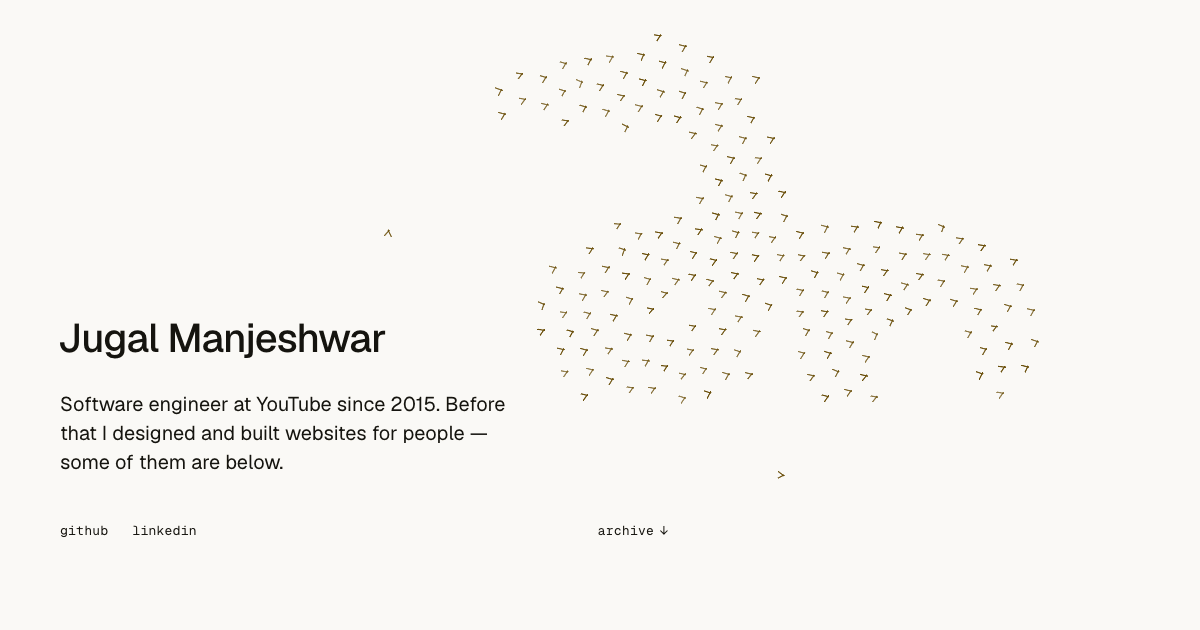
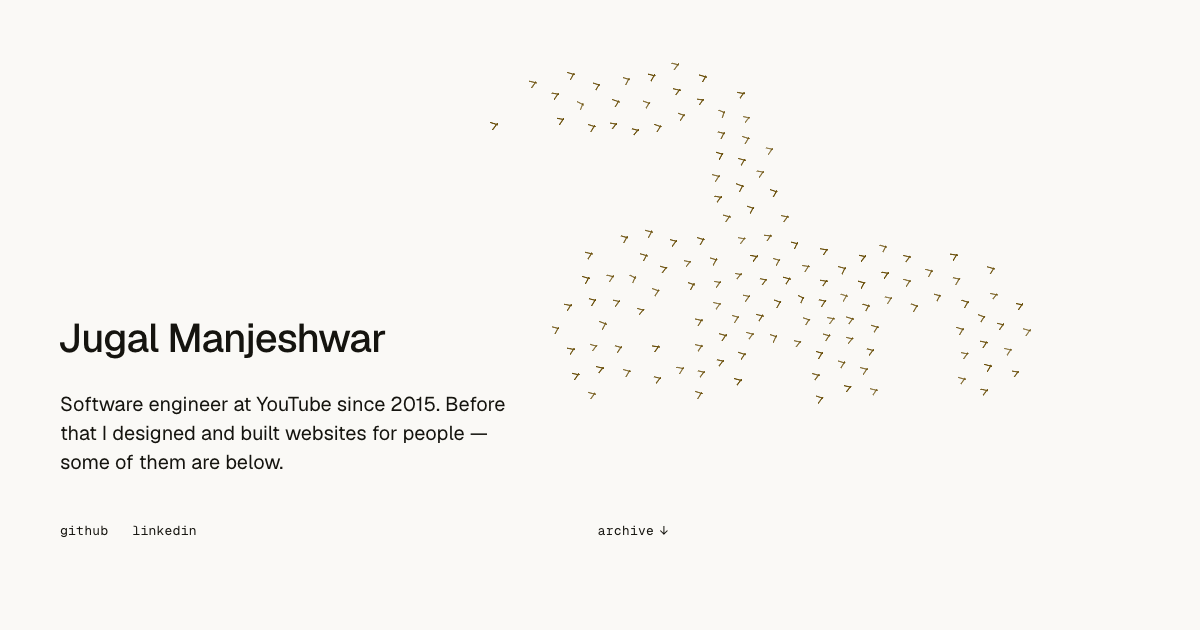
Fewer, cheaper birds: 140 on desktop, a bare GL context, a 60px bleed
Counts drop 200 → 140 on desktop, 70 → 60 on phones, 220 → 150 on the 404.
140 is the floor where the mark still reads; 120 goes patchy.

The GL context stops asking for what it never uses — depth: false,
stencil: false, desynchronized: true — and adds
failIfMajorPerformanceCaveat, so machines where "WebGL" means SwiftShader
fall through to the Canvas 2D path, which is measurably faster there (23
draws/s vs keeping pace with a 60 Hz rAF).

The canvas bleed shrinks 90 → 60 px everywhere it appears: it is off-screen
paint the compositor pays for at full price, ~12% of the layer at 1440×900,
and 60 px is still enough for a bird to turn around out of sight.

diff --git a/index.html b/index.html
@@ -64,7 +64,7 @@
 <canvas id="flock" aria-hidden="true"></canvas>
 <!-- Without script, a still of a seeded flock so the page is never blank. -->
 <!--STILL-->
-<svg class="still" viewBox="0 0 1620 1080" preserveAspectRatio="xMidYMid meet" aria-hidden="true" focusable="false"><polyline points="730.0,482.3 731.3,477.3 726.1,477.1" opacity="0.75"/><polyline points="745.6,321.3 748.8,325.0 750.8,320.6" opacity="0.95"/><polyline points="832.8,484.4 829.3,481.0 827.7,485.6" opacity="0.94"/><polyline points="1070.0,603.3 1074.2,601.3 1070.5,598.5" opacity="0.92"/><polyline points="770.9,285.6 768.5,281.3 764.6,284.4" opacity="0.85"/><polyline points="1050.0,484.5 1045.2,483.9 1046.8,488.5" opacity="0.78"/><polyline points="932.5,526.8 930.7,522.3 926.5,524.8" opacity="0.71"/><polyline points="814.1,603.7 810.4,607.1 814.9,609.4" opacity="0.83"/><polyline points="813.1,527.3 814.8,522.6 809.8,523.0" opacity="0.85"/><polyline points="985.2,470.7 988.9,467.1 984.2,464.9" opacity="0.93"/><polyline points="695.1,577.5 692.6,581.6 696.2,584.9" opacity="0.81"/><polyline points="892.6,580.3 889.6,584.5 894.4,586.3" opacity="0.71"/><polyline points="734.3,604.6 729.6,602.4 729.1,607.6" opacity="0.91"/><polyline points="787.9,523.0 792.4,524.8 793.8,520.1" opacity="0.74"/><polyline points="646.7,602.5 651.6,600.8 648.3,596.8" opacity="0.69"/><polyline points="916.5,479.7 911.5,479.9 913.7,484.4" opacity="0.83"/><polyline points="1067.4,509.2 1069.9,505.0 1065.0,504.0" opacity="0.82"/><polyline points="611.3,581.1 616.4,580.5 614.7,575.7" opacity="0.78"/><polyline points="976.2,517.8 975.4,522.9 980.6,522.4" opacity="0.91"/><polyline points="677.0,318.3 673.3,321.8 677.7,324.6" opacity="0.68"/><polyline points="806.7,503.4 810.3,506.7 813.2,502.8" opacity="0.93"/><polyline points="815.2,447.4 812.9,443.0 808.9,446.1" opacity="0.70"/><polyline points="718.2,473.6 714.4,476.9 719.0,479.0" opacity="0.94"/><polyline points="792.8,320.1 792.7,325.1 797.6,324.4" opacity="0.74"/><polyline points="890.2,497.5 892.4,502.0 896.5,499.1" opacity="0.88"/><polyline points="1087.8,607.2 1089.4,602.3 1084.3,602.6" opacity="0.95"/><polyline points="793.7,539.4 796.6,543.6 800.2,540.2" opacity="0.69"/><polyline points="698.6,524.3 695.3,520.4 692.3,524.7" opacity="0.75"/><polyline points="813.5,580.5 812.1,585.4 817.2,585.0" opacity="0.72"/><polyline points="675.1,543.3 671.6,539.9 668.6,543.9" opacity="0.88"/><polyline points="1094.1,584.5 1089.5,582.6 1089.6,587.6" opacity="0.90"/><polyline points="1026.7,503.5 1031.9,502.9 1030.4,498.0" opacity="0.77"/><polyline points="733.7,504.8 733.0,499.7 728.2,501.4" opacity="0.79"/><polyline points="831.4,457.8 831.0,463.0 836.1,462.3" opacity="0.76"/><polyline points="718.4,521.4 714.1,519.9 711.2,523.3" opacity="0.91"/><polyline points="799.5,461.0 795.5,462.6 795.9,466.8" opacity="0.72"/><polyline points="795.3,607.3 796.3,602.2 791.1,602.7" opacity="0.74"/><polyline points="917.2,618.5 912.2,619.5 914.4,624.2" opacity="0.93"/><polyline points="1110.5,601.8 1106.4,604.7 1110.6,607.4" opacity="0.95"/><polyline points="565.8,303.2 571.0,303.4 569.5,298.5" opacity="0.80"/><polyline points="1110.3,520.0 1107.0,523.7 1111.7,525.1" opacity="0.76"/><polyline points="947.4,520.0 947.4,525.1 952.3,523.5" opacity="0.92"/><polyline points="756.5,621.8 751.3,622.3 753.3,627.1" opacity="0.69"/><polyline points="773.5,325.2 770.6,321.2 767.1,324.7" opacity="0.74"/><polyline points="894.5,561.7 889.6,563.3 892.7,567.3" opacity="0.78"/><polyline points="752.7,607.3 747.8,606.6 747.9,611.5" opacity="0.71"/><polyline points="948.8,586.8 946.8,583.3 944.8,586.8" opacity="0.76"/><polyline points="923.5,485.6 927.5,483.1 924.9,479.1" opacity="0.74"/><polyline points="1069.3,541.7 1068.9,546.5 1073.5,544.9" opacity="0.81"/><polyline points="997.9,526.3 993.9,522.9 991.9,527.8" opacity="0.84"/><polyline points="951.5,556.0 950.0,559.8 954.0,559.0" opacity="0.71"/><polyline points="889.4,488.1 889.7,483.2 884.9,483.6" opacity="0.80"/><polyline points="716.3,465.5 712.7,462.0 709.7,466.0" opacity="0.73"/><polyline points="711.0,330.4 710.7,325.2 706.0,327.2" opacity="0.71"/><polyline points="764.4,571.4 767.0,566.9 762.0,565.7" opacity="0.84"/><polyline points="790.6,485.0 793.8,481.1 789.0,479.7" opacity="0.93"/><polyline points="932.5,622.3 928.0,620.0 926.5,624.8" opacity="0.77"/><polyline points="745.5,585.7 750.2,583.6 747.0,579.6" opacity="0.72"/><polyline points="634.3,586.9 635.3,581.9 630.2,581.7" opacity="0.84"/><polyline points="856.3,477.1 852.3,479.5 854.8,483.5" opacity="0.71"/><polyline points="949.6,605.8 948.4,600.9 944.3,603.8" opacity="0.93"/><polyline points="653.7,305.8 649.1,307.7 651.6,312.0" opacity="0.70"/><polyline points="700.7,622.1 695.6,622.9 697.3,627.8" opacity="0.72"/><polyline points="664.5,529.0 667.2,525.0 662.9,522.8" opacity="0.72"/><polyline points="589.8,288.4 591.1,283.4 585.9,283.7" opacity="0.83"/><polyline points="762.8,507.5 767.3,505.6 763.8,502.2" opacity="0.90"/><polyline points="466.6,493.6 461.4,493.4 463.1,498.3" opacity="0.86"/><polyline points="1032.5,528.2 1027.6,527.2 1028.5,532.2" opacity="0.85"/><polyline points="1030.9,475.5 1029.6,480.3 1034.6,480.7" opacity="0.74"/><polyline points="694.4,308.7 694.6,303.6 689.8,305.2" opacity="0.79"/><polyline points="751.8,262.7 747.7,265.9 751.9,268.9" opacity="0.83"/><polyline points="669.3,495.1 670.5,500.1 674.9,497.5" opacity="0.79"/><polyline points="834.4,359.4 832.2,363.9 837.0,365.2" opacity="0.86"/><polyline points="650.3,285.9 653.3,282.0 649.0,279.5" opacity="0.83"/><polyline points="1095.6,500.4 1091.1,502.7 1095.0,506.0" opacity="0.87"/><polyline points="667.1,599.9 671.3,601.6 670.9,597.1" opacity="0.89"/><polyline points="815.6,323.6 810.7,323.5 811.5,328.3" opacity="0.76"/><polyline points="953.9,621.4 949.7,618.8 947.7,623.3" opacity="0.75"/><polyline points="732.9,586.7 730.4,582.1 726.9,586.0" opacity="0.87"/><polyline points="771.7,626.4 769.0,622.1 765.9,626.2" opacity="0.95"/><polyline points="734.4,464.8 729.8,463.2 728.6,467.9" opacity="0.90"/><polyline points="619.7,539.8 614.7,540.7 617.5,544.9" opacity="0.83"/><polyline points="690.3,597.8 691.7,602.8 695.9,599.8" opacity="0.70"/><polyline points="657.4,503.7 654.0,500.3 651.9,504.7" opacity="0.70"/><polyline points="753.1,297.3 749.9,301.0 754.1,303.5" opacity="0.83"/><polyline points="1050.9,527.3 1048.1,522.9 1044.5,526.7" opacity="0.78"/><polyline points="750.2,508.4 749.7,503.3 744.8,505.0" opacity="0.71"/><polyline points="949.0,502.6 945.3,506.1 949.9,508.0" opacity="0.79"/><polyline points="950.5,467.9 945.3,467.8 945.9,472.9" opacity="0.84"/><polyline points="710.9,502.7 713.5,499.7 712.2,495.9" opacity="0.72"/><polyline points="1087.1,542.2 1091.7,543.6 1092.8,538.9" opacity="0.78"/><polyline points="973.2,479.6 970.6,484.1 975.7,485.0" opacity="0.75"/><polyline points="801.1,584.5 796.6,582.2 795.3,587.1" opacity="0.80"/><polyline points="1067.9,529.7 1071.3,526.2 1067.2,523.5" opacity="0.71"/><polyline points="1074.7,560.4 1071.7,564.6 1076.6,566.3" opacity="0.75"/><polyline points="697.1,501.5 692.1,501.5 694.1,506.0" opacity="0.93"/><polyline points="807.3,339.6 810.9,343.4 813.3,338.8" opacity="0.87"/><polyline points="754.7,282.4 750.3,283.2 752.9,286.8" opacity="0.70"/><polyline points="824.5,405.9 828.9,407.9 829.0,403.0" opacity="0.94"/><polyline points="1098.0,619.7 1093.2,620.9 1095.2,625.4" opacity="0.69"/><polyline points="766.3,464.5 770.2,461.5 765.9,459.2" opacity="0.92"/><polyline points="672.6,309.5 668.7,306.3 667.4,311.1" opacity="0.81"/><polyline points="789.8,342.3 791.6,346.9 795.9,344.4" opacity="0.76"/><polyline points="655.7,618.9 652.2,622.5 656.5,625.2" opacity="0.93"/><polyline points="635.7,546.7 634.3,541.7 630.1,544.6" opacity="0.69"/><polyline points="742.5,480.1 747.6,480.8 747.1,475.7" opacity="0.76"/><polyline points="673.3,555.3 669.7,558.4 673.5,561.3" opacity="0.86"/><polyline points="638.9,304.0 634.3,302.1 633.3,307.0" opacity="0.74"/><polyline points="675.6,282.6 670.5,281.4 670.6,286.6" opacity="0.69"/><polyline points="631.3,564.4 634.8,560.7 630.4,557.9" opacity="0.95"/><polyline points="798.1,300.1 793.3,301.6 795.7,306.0" opacity="0.76"/><polyline points="941.0,542.7 945.0,545.6 947.1,541.2" opacity="0.81"/><polyline points="652.5,540.8 649.7,545.1 654.6,546.6" opacity="0.72"/><polyline points="845.6,461.9 846.8,467.0 851.5,464.7" opacity="0.77"/><polyline points="807.5,389.5 810.6,385.4 805.6,383.8" opacity="0.84"/><polyline points="1048.7,508.1 1050.1,503.6 1045.5,502.4" opacity="0.71"/><polyline points="691.9,466.0 692.9,461.1 687.9,460.9" opacity="0.77"/><polyline points="630.6,321.9 635.8,322.3 634.7,317.2" opacity="0.84"/><polyline points="894.5,525.9 889.3,525.2 890.2,530.4" opacity="0.75"/><polyline points="646.3,568.8 648.6,564.3 643.6,563.4" opacity="0.77"/><polyline points="648.4,522.3 653.1,520.4 649.6,516.7" opacity="0.73"/><polyline points="791.2,440.9 791.8,445.9 796.6,444.6" opacity="0.95"/><polyline points="811.5,400.4 815.0,404.1 818.1,400.0" opacity="0.76"/><polyline points="999.9,479.3 994.7,479.6 996.8,484.3" opacity="0.80"/><polyline points="738.8,321.0 734.0,320.4 734.1,325.3" opacity="0.87"/><polyline points="717.1,580.3 712.3,581.3 715.3,585.2" opacity="0.82"/><polyline points="726.8,280.0 728.5,284.6 732.8,282.1" opacity="0.88"/><polyline points="799.0,567.9 796.3,563.4 792.9,567.4" opacity="0.86"/><polyline points="594.7,300.1 590.6,303.2 594.6,306.4" opacity="0.71"/><polyline points="796.9,501.4 793.9,505.5 798.5,507.5" opacity="0.79"/><polyline points="794.0,407.4 796.6,402.9 791.5,401.8" opacity="0.94"/><polyline points="1106.9,578.6 1110.4,582.0 1113.2,578.0" opacity="0.78"/><polyline points="1071.5,478.1 1071.3,483.1 1076.3,482.4" opacity="0.94"/><polyline points="809.4,422.8 810.3,427.9 814.9,425.6" opacity="0.70"/><polyline points="1006.1,503.3 1008.7,507.7 1012.0,503.8" opacity="0.87"/><polyline points="909.1,549.0 908.2,544.0 904.1,546.9" opacity="0.89"/><polyline points="616.6,327.0 612.8,323.6 611.3,328.4" opacity="0.71"/><polyline points="733.3,265.2 728.4,264.8 728.7,269.7" opacity="0.93"/><polyline points="913.8,560.2 909.9,563.3 914.3,565.5" opacity="0.74"/><polyline points="772.1,606.1 768.8,602.2 765.7,606.3" opacity="0.70"/><polyline points="714.8,627.4 710.1,625.4 708.8,630.3" opacity="0.73"/><polyline points="808.0,547.4 812.6,545.3 808.8,541.9" opacity="0.74"/><polyline points="771.8,484.2 767.3,481.8 766.8,486.8" opacity="0.87"/><polyline points="1092.4,566.4 1087.3,566.5 1088.9,571.4" opacity="0.86"/><polyline points="1109.1,548.8 1106.7,544.6 1104.0,548.7" opacity="0.74"/><polyline points="653.3,471.4 651.7,476.3 656.9,476.3" opacity="0.86"/><polyline points="795.2,424.0 791.9,428.0 796.5,430.3" opacity="0.76"/><polyline points="854.5,447.8 850.4,444.6 848.7,449.5" opacity="0.84"/><polyline points="795.0,367.0 796.6,362.1 791.4,362.0" opacity="0.73"/><polyline points="695.5,327.8 695.3,322.7 690.3,324.0" opacity="0.80"/><polyline points="808.1,488.0 810.4,483.3 805.2,482.6" opacity="0.79"/><polyline points="989.1,506.5 993.2,503.9 989.2,501.3" opacity="0.74"/><polyline points="974.2,497.7 973.5,502.8 978.5,501.6" opacity="0.90"/><polyline points="621.2,282.9 616.3,283.2 618.6,287.5" opacity="0.78"/><polyline points="889.8,458.3 892.2,462.7 896.2,459.7" opacity="0.76"/><polyline points="799.2,385.0 794.1,386.0 796.5,390.5" opacity="0.78"/><polyline points="859.9,509.2 864.6,507.1 861.3,503.1" opacity="0.87"/><polyline points="1010.2,532.1 1009.7,526.9 1004.9,528.9" opacity="0.84"/><polyline points="852.1,428.0 847.0,427.5 848.5,432.4" opacity="0.91"/><polyline points="733.7,308.8 730.5,304.7 727.4,308.9" opacity="0.78"/><polyline points="655.7,324.7 650.7,326.1 653.5,330.5" opacity="0.83"/><polyline points="814.8,469.7 810.4,467.5 810.4,472.3" opacity="0.77"/><polyline points="893.7,605.0 893.5,599.8 888.6,601.4" opacity="0.81"/><polyline points="1033.0,466.8 1027.8,466.6 1029.1,471.6" opacity="0.79"/><polyline points="914.1,526.7 912.3,521.8 908.3,525.1" opacity="0.76"/><polyline points="917.1,577.7 912.5,580.0 916.0,583.8" opacity="0.89"/><polyline points="827.0,570.6 828.6,565.9 823.6,566.5" opacity="0.76"/><polyline points="630.0,530.4 630.2,525.3 625.3,526.8" opacity="0.89"/><polyline points="870.5,466.5 869.7,462.7 867.0,465.5" opacity="0.90"/><polyline points="712.7,286.2 712.5,281.3 707.7,282.2" opacity="0.89"/><polyline points="557.6,321.0 552.4,321.2 554.0,326.1" opacity="0.81"/><polyline points="699.2,279.5 695.3,282.4 698.8,285.8" opacity="0.84"/><polyline points="711.0,597.2 710.7,602.3 715.6,600.8" opacity="0.74"/><polyline points="709.8,298.6 710.5,303.8 715.2,301.6" opacity="0.94"/><polyline points="652.7,587.9 649.4,585.6 645.8,587.4" opacity="0.85"/><polyline points="769.8,349.0 765.9,345.6 763.9,350.4" opacity="0.77"/><polyline points="834.2,543.4 829.4,544.3 831.0,548.9" opacity="0.87"/><polyline points="930.6,577.0 927.7,581.2 932.4,583.1" opacity="0.76"/><polyline points="1006.9,463.9 1012.0,463.6 1012.6,458.6" opacity="0.80"/><polyline points="833.5,445.5 828.6,446.6 830.7,451.2" opacity="0.94"/><polyline points="617.3,565.7 612.2,564.8 612.7,569.9" opacity="0.94"/><polyline points="907.6,598.9 907.8,604.1 912.7,602.3" opacity="0.78"/><polyline points="965.5,469.1 970.3,467.1 967.0,463.1" opacity="0.93"/><polyline points="635.1,600.9 630.7,603.4 634.7,606.5" opacity="0.69"/><polyline points="827.0,383.9 832.1,384.5 831.6,379.4" opacity="0.69"/><polyline points="766.0,299.4 765.7,304.3 770.6,303.7" opacity="0.70"/><polyline points="812.9,305.8 813.7,301.6 809.7,303.0" opacity="0.78"/><polyline points="910.7,498.7 911.5,503.2 915.3,500.6" opacity="0.70"/><polyline points="692.0,471.9 694.5,476.1 697.3,472.0" opacity="0.82"/><polyline points="1088.7,527.7 1088.7,523.6 1085.3,525.8" opacity="0.81"/><polyline points="831.9,431.8 828.5,428.0 826.1,432.5" opacity="0.86"/><polyline points="934.7,541.6 929.6,540.6 929.4,545.8" opacity="0.81"/><polyline points="1068.4,586.5 1071.3,582.5 1066.5,581.7" opacity="0.87"/><polyline points="815.1,367.7 815.4,362.8 810.5,363.3" opacity="0.76"/><polyline points="752.3,462.8 747.6,465.0 751.0,469.0" opacity="0.82"/><polyline points="635.3,290.4 632.1,286.6 628.9,290.3" opacity="0.71"/><polyline points="1226.9,486.9 1228.1,482.4 1223.5,483.5" opacity="0.76"/><polyline points="636.0,502.5 631.6,504.9 634.8,508.8" opacity="0.72"/><polyline points="1006.6,481.3 1011.2,479.1 1007.5,475.6" opacity="0.69"/><polyline points="670.5,586.2 671.5,581.1 666.3,581.5" opacity="0.76"/></svg>
+<svg class="still" viewBox="0 0 1560 1020" preserveAspectRatio="xMidYMid meet" aria-hidden="true" focusable="false"><polyline points="711.9,275.5 710.9,270.8 706.2,272.2" opacity="0.79"/><polyline points="1044.4,533.5 1048.1,536.6 1051.2,533.0" opacity="0.84"/><polyline points="656.8,297.4 653.9,293.5 650.4,296.8" opacity="0.93"/><polyline points="975.0,489.4 969.8,490.0 971.5,494.9" opacity="0.81"/><polyline points="629.8,518.8 625.3,516.5 624.9,521.5" opacity="0.79"/><polyline points="808.8,432.1 804.2,434.3 807.9,437.9" opacity="0.78"/><polyline points="632.4,277.4 630.5,272.6 626.5,275.8" opacity="0.83"/><polyline points="756.9,376.8 753.5,373.2 750.5,377.1" opacity="0.89"/><polyline points="1051.4,578.9 1047.6,575.9 1045.2,580.2" opacity="0.93"/><polyline points="825.6,445.8 822.6,450.1 827.5,451.6" opacity="0.94"/><polyline points="592.1,548.3 593.5,553.0 597.9,550.8" opacity="0.89"/><polyline points="631.0,568.1 628.2,572.4 633.2,573.2" opacity="0.74"/><polyline points="1123.2,315.1 1119.2,312.4 1116.9,316.6" opacity="0.74"/><polyline points="910.4,486.2 907.9,490.8 913.0,491.7" opacity="0.84"/><polyline points="787.2,443.5 790.7,447.0 794.4,443.6" opacity="0.94"/><polyline points="773.1,378.3 768.2,378.2 768.8,383.0" opacity="0.86"/><polyline points="863.4,597.5 867.2,593.9 862.6,591.4" opacity="0.86"/><polyline points="901.6,594.5 904.7,590.8 899.9,589.7" opacity="0.69"/><polyline points="885.5,592.5 889.8,590.0 886.6,586.3" opacity="0.91"/><polyline points="675.1,433.6 670.8,432.3 667.9,435.8" opacity="0.81"/><polyline points="871.5,534.1 869.2,529.7 866.2,533.6" opacity="0.79"/><polyline points="887.4,557.3 887.7,552.5 883.1,553.7" opacity="0.76"/><polyline points="516.6,293.6 511.5,293.4 512.5,298.4" opacity="0.94"/><polyline points="1071.6,527.4 1071.6,532.3 1076.0,530.2" opacity="0.68"/><polyline points="903.9,550.0 904.6,554.2 907.8,551.4" opacity="0.86"/><polyline points="980.7,491.9 985.7,491.0 983.8,486.3" opacity="0.79"/><polyline points="847.6,508.6 852.4,509.9 852.9,505.0" opacity="0.75"/><polyline points="1048.5,472.4 1053.6,471.6 1051.4,467.0" opacity="0.83"/><polyline points="933.0,490.7 928.3,492.8 931.5,496.9" opacity="0.71"/><polyline points="883.2,527.6 880.5,531.4 885.1,532.3" opacity="0.76"/><polyline points="786.5,472.1 791.2,470.8 787.9,467.2" opacity="0.83"/><polyline points="1054.7,518.2 1050.4,515.4 1048.7,520.2" opacity="0.82"/><polyline points="711.7,452.9 710.3,448.0 705.8,450.2" opacity="0.72"/><polyline points="969.8,475.0 964.7,475.3 965.8,480.3" opacity="0.76"/><polyline points="712.1,574.2 710.1,569.8 706.9,573.4" opacity="0.72"/><polyline points="574.3,278.0 570.0,275.5 568.3,280.1" opacity="0.86"/><polyline points="711.1,256.9 710.2,251.8 705.5,254.1" opacity="0.86"/><polyline points="695.2,572.3 690.2,571.4 691.0,576.5" opacity="0.84"/><polyline points="937.3,471.0 932.2,470.3 932.2,475.5" opacity="0.95"/><polyline points="953.2,473.5 948.8,470.7 947.1,475.6" opacity="0.74"/><polyline points="612.6,594.7 607.8,596.7 611.3,600.6" opacity="0.72"/><polyline points="575.2,516.4 571.4,513.3 570.3,518.1" opacity="0.87"/><polyline points="1030.0,532.4 1030.0,537.3 1034.5,535.4" opacity="0.78"/><polyline points="791.0,528.8 786.8,531.3 790.8,534.1" opacity="0.77"/><polyline points="674.7,293.5 670.2,295.8 673.8,299.3" opacity="0.84"/><polyline points="1051.9,596.0 1047.4,596.6 1047.5,601.1" opacity="0.83"/><polyline points="845.1,530.6 847.8,534.8 850.6,530.6" opacity="0.76"/><polyline points="965.1,446.1 966.1,451.0 970.8,449.2" opacity="0.84"/><polyline points="588.5,569.4 592.8,572.3 594.5,567.5" opacity="0.91"/><polyline points="674.0,548.4 670.2,551.9 674.5,554.7" opacity="0.95"/><polyline points="752.5,524.9 754.0,529.8 758.0,526.7" opacity="0.87"/><polyline points="851.1,476.8 848.0,472.8 844.5,476.4" opacity="0.73"/><polyline points="906.5,441.6 908.3,446.2 912.5,443.7" opacity="0.94"/><polyline points="819.5,468.7 823.8,471.6 825.0,466.6" opacity="0.89"/><polyline points="668.5,273.9 673.5,272.4 671.8,267.5" opacity="0.76"/><polyline points="752.4,484.7 753.1,489.7 757.3,487.0" opacity="0.69"/><polyline points="784.2,370.4 788.2,373.7 790.3,369.0" opacity="0.91"/><polyline points="1061.6,576.2 1066.4,574.9 1064.2,570.4" opacity="0.84"/><polyline points="1036.2,491.0 1032.5,494.5 1036.8,497.3" opacity="0.88"/><polyline points="881.3,534.3 884.0,538.2 887.2,534.6" opacity="0.74"/><polyline points="745.4,396.3 750.2,395.1 748.3,390.6" opacity="0.78"/><polyline points="793.1,485.3 790.8,490.0 795.9,490.9" opacity="0.88"/><polyline points="628.3,552.4 626.5,557.0 631.4,557.9" opacity="0.80"/><polyline points="784.1,401.3 785.9,396.4 780.8,396.5" opacity="0.88"/><polyline points="669.9,257.8 670.5,253.0 665.6,253.0" opacity="0.91"/><polyline points="633.1,494.4 629.1,491.4 626.9,495.9" opacity="0.80"/><polyline points="871.2,577.1 867.4,574.0 864.8,578.1" opacity="0.82"/><polyline points="731.1,573.4 725.9,573.0 726.9,578.1" opacity="0.77"/><polyline points="1061.8,556.8 1067.0,557.1 1065.8,552.0" opacity="0.68"/><polyline points="903.4,569.7 902.8,573.7 906.0,576.2" opacity="0.74"/><polyline points="771.8,553.9 767.0,553.8 767.2,558.6" opacity="0.86"/><polyline points="776.0,334.4 770.9,333.5 771.7,338.6" opacity="0.83"/><polyline points="770.8,291.8 770.5,297.0 775.7,297.2" opacity="0.70"/><polyline points="720.9,530.6 725.6,531.1 723.9,526.6" opacity="0.80"/><polyline points="753.5,288.6 754.2,293.7 758.9,291.4" opacity="0.76"/><polyline points="794.7,513.2 791.1,509.4 788.4,513.9" opacity="0.86"/><polyline points="692.9,448.0 689.7,450.6 690.5,454.6" opacity="0.86"/><polyline points="589.7,253.8 587.8,257.8 590.6,261.3" opacity="0.83"/><polyline points="633.1,297.1 631.4,292.5 627.8,295.9" opacity="0.88"/><polyline points="705.7,231.2 706.8,235.8 711.4,234.4" opacity="0.74"/><polyline points="771.4,269.1 773.3,273.6 776.7,270.0" opacity="0.89"/><polyline points="906.5,539.2 902.6,535.8 900.2,540.3" opacity="0.77"/><polyline points="731.1,256.4 729.4,251.7 725.0,254.0" opacity="0.94"/><polyline points="728.5,270.7 725.6,275.0 730.4,276.8" opacity="0.85"/><polyline points="730.9,546.5 727.2,549.9 731.7,552.1" opacity="0.76"/><polyline points="1026.4,475.3 1030.7,472.5 1027.0,469.0" opacity="0.75"/><polyline points="650.6,251.8 650.6,256.9 655.4,255.2" opacity="0.77"/><polyline points="870.3,448.9 865.7,450.8 869.3,454.3" opacity="0.91"/><polyline points="886.7,518.7 885.6,514.0 881.0,515.8" opacity="0.77"/><polyline points="614.2,296.3 610.8,292.5 608.6,297.0" opacity="0.87"/><polyline points="731.1,435.9 728.9,431.5 724.8,434.2" opacity="0.85"/><polyline points="755.1,310.1 752.0,313.9 756.8,315.0" opacity="0.82"/><polyline points="753.8,338.3 754.7,334.0 750.6,335.4" opacity="0.93"/><polyline points="864.2,489.0 869.0,490.6 868.5,485.6" opacity="0.86"/><polyline points="734.6,447.1 729.5,446.3 730.1,451.5" opacity="0.81"/><polyline points="679.6,445.7 674.5,446.8 677.3,451.2" opacity="0.83"/><polyline points="713.5,469.0 708.7,470.8 711.8,474.9" opacity="0.87"/><polyline points="614.8,252.3 610.3,254.7 614.2,258.1" opacity="0.85"/><polyline points="754.5,474.1 753.0,469.4 749.3,472.6" opacity="0.75"/><polyline points="676.2,475.2 671.3,473.5 671.5,478.6" opacity="0.73"/><polyline points="766.7,510.5 771.5,510.6 769.4,506.2" opacity="0.72"/><polyline points="884.2,466.5 886.6,470.8 889.3,466.7" opacity="0.84"/><polyline points="772.7,316.0 768.1,318.2 771.4,322.2" opacity="0.76"/><polyline points="615.2,472.9 610.3,471.9 611.5,476.7" opacity="0.92"/><polyline points="875.0,511.5 870.1,510.7 870.0,515.7" opacity="0.71"/><polyline points="727.3,596.3 723.9,592.8 722.2,597.4" opacity="0.79"/><polyline points="686.0,431.9 690.2,434.5 692.0,429.9" opacity="0.89"/><polyline points="657.2,493.5 652.4,492.4 652.2,497.4" opacity="0.82"/><polyline points="787.9,437.6 788.9,432.8 784.2,433.9" opacity="0.69"/><polyline points="807.5,406.7 807.6,411.5 812.4,410.9" opacity="0.79"/><polyline points="791.6,350.2 788.5,353.9 793.0,355.7" opacity="0.73"/><polyline points="548.4,262.4 545.0,258.7 542.1,262.8" opacity="0.81"/><polyline points="768.7,468.7 769.3,473.9 773.9,471.6" opacity="0.73"/><polyline points="1028.3,549.3 1032.0,552.6 1034.8,548.5" opacity="0.76"/><polyline points="623.6,471.5 628.4,471.8 626.6,467.3" opacity="0.71"/><polyline points="870.2,475.7 870.0,471.3 866.2,473.6" opacity="0.87"/><polyline points="801.6,449.4 806.8,449.3 806.5,444.1" opacity="0.75"/><polyline points="795.5,331.2 791.2,333.5 795.2,336.3" opacity="0.69"/><polyline points="903.1,470.3 908.2,469.9 905.8,465.4" opacity="0.94"/><polyline points="1068.8,516.3 1072.0,512.1 1067.2,510.2" opacity="0.93"/><polyline points="574.1,539.0 569.9,536.4 568.0,540.9" opacity="0.79"/><polyline points="1033.6,571.8 1030.8,576.1 1035.8,577.2" opacity="0.71"/><polyline points="775.9,570.7 770.8,570.6 772.2,575.5" opacity="0.94"/><polyline points="608.8,449.5 605.7,452.9 610.0,454.5" opacity="0.85"/><polyline points="609.6,549.3 610.5,554.3 614.7,551.6" opacity="0.71"/><polyline points="748.9,355.7 753.6,354.3 750.5,350.6" opacity="0.73"/><polyline points="1003.8,443.3 1007.2,446.8 1010.2,443.0" opacity="0.95"/><polyline points="1043.3,559.7 1047.9,557.3 1044.2,553.6" opacity="0.89"/><polyline points="752.8,547.9 750.9,552.7 756.1,552.7" opacity="0.85"/><polyline points="612.7,493.6 607.8,492.2 608.6,497.2" opacity="0.91"/><polyline points="771.3,494.5 772.6,489.8 767.8,489.2" opacity="0.73"/><polyline points="887.7,490.4 885.2,494.8 890.1,496.4" opacity="0.69"/><polyline points="570.5,288.6 570.8,293.8 575.7,292.1" opacity="0.90"/><polyline points="776.5,532.7 772.3,530.0 770.2,534.5" opacity="0.72"/><polyline points="602.5,575.3 607.5,576.2 607.5,571.1" opacity="0.90"/><polyline points="588.8,272.1 590.4,276.2 593.1,272.8" opacity="0.70"/><polyline points="863.3,550.0 868.4,550.5 867.1,545.5" opacity="0.92"/><polyline points="854.1,495.9 850.2,492.6 847.6,497.0" opacity="0.89"/><polyline points="655.2,472.5 650.4,472.7 652.6,477.1" opacity="0.77"/><polyline points="653.5,438.3 650.1,434.8 647.2,438.7" opacity="0.87"/></svg>
 <!--/STILL-->
 
 <header class="hero" id="top">

diff --git a/js/flock.js b/js/flock.js
@@ -43,7 +43,7 @@
  * a nudge, deliberately too weak to trap anyone (a field that can win a
  * tug-of-war creates standing equilibria: queues of not-stuck birds).
  *
- * The world is the VIEWPORT (plus a 90 px bleed): the canvas is fixed, and
+ * The world is the VIEWPORT (plus a 60 px bleed): the canvas is fixed, and
  * the content rectangles live in document coordinates that the worker
  * offsets by the scroll position (one tiny message per scrolled frame; no
  * layout reads).
@@ -799,9 +799,18 @@ export class Flock {
 export class GLPainter {
   static try(canvas) {
     try {
-      // No MSAA: the fragment shader feathers the quad edges itself, which is
-      // cheaper than a multisampled framebuffer on weak GPUs.
-      const opts = { alpha: true, antialias: false, powerPreference: 'low-power', premultipliedAlpha: true };
+      // No MSAA (the fragment shader feathers its own edges), no depth, no
+      // stencil: flat strokes want a bare colour buffer, and every buffer not
+      // allocated is bandwidth the compositor never spends. desynchronized
+      // lets the browser skip a compositor copy where it can.
+      // failIfMajorPerformanceCaveat is the important one: it refuses a
+      // SOFTWARE GL context (SwiftShader — blocklisted GPUs, many VMs). On
+      // those machines "WebGL" is the slow path — measured headless: 23
+      // draws/s against a 60 Hz rAF, while the Canvas 2D fallback keeps up —
+      // so failing over to 2D is not a degradation, it is the fix.
+      const opts = { alpha: true, antialias: false, depth: false, stencil: false,
+        desynchronized: true, failIfMajorPerformanceCaveat: true,
+        powerPreference: 'low-power', premultipliedAlpha: true };
       const gl = canvas.getContext('webgl2', opts) || canvas.getContext('webgl', opts);
       if (!gl) return null;
       const ext = gl.vertexAttribDivisor ? null : gl.getExtension('ANGLE_instanced_arrays');

diff --git a/js/main.js b/js/main.js
@@ -74,7 +74,7 @@ function measureWorld() {
   world = { w: Math.max(1, Math.round(r.width)), h: Math.max(1, Math.round(r.height)) };
   return world;
 }
-// The content walls, in document(+bleed) space — sent once per layout; the
+// The content walls, in document(+60px bleed) space — sent once per layout; the
 // worker subtracts the live scroll offset, so scrolling reads no layout.
 function sendObstacles() {
   const wide = vw() >= 700;
@@ -82,7 +82,7 @@ function sendObstacles() {
     .filter(el => wide || !el.dataset.obstacleWide)
     .map(el => {
       const r = el.getBoundingClientRect();
-      return { x: r.left + 90, y: r.top + scrollY + 90, w: r.width, h: r.height };
+      return { x: r.left + 60, y: r.top + scrollY + 60, w: r.width, h: r.height };
     });
   post({ type: 'obstacles', rects });
 }
@@ -91,7 +91,7 @@ function sendObstacles() {
 const dpr = () => (params.has('fdpr') ? +params.get('fdpr') : Math.min(1.5, devicePixelRatio || 1));
 const vw = () => innerWidth;
 const coarse = matchMedia('(pointer: coarse)').matches;
-const TARGET = params.has('n') ? +params.get('n') : (coarse || innerWidth < 700 ? 70 : 200);
+const TARGET = params.has('n') ? +params.get('n') : (coarse || innerWidth < 700 ? 60 : 140);
 const seed = params.has('seed') ? +params.get('seed') : undefined;
 const month = new Date().getMonth();
 const season = params.get('season') || (month === 11 ? 'snow' : null);

diff --git a/css/style.css b/css/style.css
@@ -153,9 +153,11 @@ img, svg { display: block; max-width: 100%; height: auto; }
 /* --- The flock's canvas, and the still for when there's no script -------- */
 /* The birds live in the VIEWPORT, not on the page: the canvas is fixed, and
  * the content scrolls through their world (the worker offsets it by the
- * scroll position). It bleeds 90px past every edge so a bird can leave the
+ * scroll position). It bleeds 60px past every edge so a bird can leave the
  * visible page, turn around off-stage, and come back — no visible rebounds.
- * DPR ≤ 1.5 keeps the layer cheap.
+ * The bleed is pure off-screen paint the compositor still pays for, so it is
+ * as small as the exit still reading naturally allows; with DPR ≤ 1.5 that
+ * keeps the layer cheap.
  *
  * It sits ABOVE the page content (z-index higher than .hero/main/footer):
  * the content is a soft field the birds are nudged away from, not a wall,
@@ -164,9 +166,9 @@ img, svg { display: block; max-width: 100%; height: auto; }
  * it. pointer-events stay none, so it's invisible to clicks and hover. */
 #flock, .still {
   position: fixed;
-  top: -90px; left: -90px;
-  width: calc(100vw + 180px);
-  height: calc(100svh + 180px);
+  top: -60px; left: -60px;
+  width: calc(100vw + 120px);
+  height: calc(100svh + 120px);
   z-index: 2; pointer-events: none;
 }
 .still { color: var(--flock); }

diff --git a/js/404.js b/js/404.js
@@ -19,7 +19,7 @@ const post = m => runner.handle(m);
 // The world is the canvas's own box (style.css sizes it), not the viewport:
 // a full-viewport canvas is a layer the compositor cannot afford per frame.
 const world = () => { const r = canvas.getBoundingClientRect(); return { w: Math.max(1, Math.round(r.width)), h: Math.max(1, Math.round(r.height)) }; };
-post({ type: 'init', dpr, ...world(), count: coarse ? 90 : 220, still: reduce });
+post({ type: 'init', dpr, ...world(), count: coarse ? 60 : 150, still: reduce });
 post({ type: 'style', style: { color: flockColor(dark(), hue) } });
 matchMedia('(prefers-color-scheme: dark)').addEventListener('change', () => post({ type: 'style', style: { color: flockColor(dark(), hue) } }));
 

diff --git a/DESIGN.md b/DESIGN.md
@@ -81,7 +81,7 @@ fallback. The main thread only sends small messages (pointer, where home is).
   ahead, with clearance that grows with speed — two birds on crossing paths veer around
   each other rather than phasing through, and alignment folds neighbours' motion into
   every turn.
-- **Edges are off-stage, not walls.** The canvas bleeds 90 px past every viewport edge
+- **Edges are off-stage, not walls.** The canvas bleeds 60 px past every viewport edge
   and nothing pulls a bird back until it leaves the canvas entirely — so birds exit the
   visible page, turn around out of sight, and re-enter naturally. No visible rebounds.
 - **The birds live in the viewport, and the compositor scrolls the page past them.** The
@@ -92,7 +92,10 @@ fallback. The main thread only sends small messages (pointer, where home is).
   bird may briefly reach 1.35× its own limit, a roaming one 1.15× — nothing ever
   teleports, on hover, scroll or a mark relocating. Steering (turn rate) is capped by
   `maxForce`, so all motion is progressive.
-- **Count:** 200 on desktop, 70 on phones — fixed. Never adapted behind your back.
+- **Count:** 140 on desktop, 60 on phones (150/60 on the 404) — fixed. Never adapted
+  behind your back. 140 is the floor at which the mark still reads (120 goes patchy);
+  the mark has 208 points, so not every point gets a bird, and that is fine — a flock
+  suggests the shape, it does not stipple it.
 - **Timestep:** fixed 1/60 s with an accumulator, so 30, 60 and 120 Hz screens see the same
   behaviour; frames where no step ran are not redrawn (a 120 Hz display renders 60, not
   120). Neighbour search is a uniform grid keyed by perception radius; the hot loops
@@ -188,7 +191,15 @@ Compute is never the cost. The costs that were real, in the order we found them:
    for 1.25 px shader-feathered strokes), and the canvas draws only when a sim step ran.
 4. **Adaptive density was the disease, not the cure**: it read a depressed frame rate and
    thinned the mark. Gone — the count you ask for is the count you get.
-5. **The fixed timestep beating against vsync.** The simulation ticks at exactly 60 Hz and
+5. **The renderer must refuse a software GL context.** `failIfMajorPerformanceCaveat`
+   is set on the WebGL request: on machines where "WebGL" means SwiftShader (blocklisted
+   GPUs, most VMs, headless), the GL path managed 23 draws/s against a 60 Hz rAF while
+   the Canvas 2D fallback keeps pace — on those machines 2D is not the degradation, it
+   is the fix. Real GPUs are unaffected. The context also declines the buffers it never
+   uses (`depth: false, stencil: false`) and asks for `desynchronized`, and the canvas
+   bleed shrank 90 → 60 px — the bleed is off-screen paint the compositor pays for at
+   full price, ~12 % of the layer at 1440×900.
+6. **The fixed timestep beating against vsync.** The simulation ticks at exactly 60 Hz and
    so does the display — but rAF timestamps carry sub-millisecond noise, and a plain
    accumulator turns that noise into an alternating beat. Replaying 479 real rAF deltas
    captured from a 60 Hz screen through `advance()`: only **49.5 %** of frames took one
@@ -199,7 +210,7 @@ Compute is never the cost. The costs that were real, in the order we found them:
    already within 12 % of a whole number of steps simply *is* that many steps, with 120 Hz
    and genuinely slow frames still falling through to the accumulator. Now 100 % of frames
    take exactly one. `tools/flight.mjs` keeps it that way.
-6. **A hover that animated `padding-left`**: the archive row nudged its content right by
+7. **A hover that animated `padding-left`**: the archive row nudged its content right by
    animating padding, which re-solved the row's four-column grid on every frame of the
    450 ms — the last layout work in a page that otherwise never reflows after load.
    Measured with Chrome's own `LayoutCount`: 43 layouts per hover in-and-out, against 2
